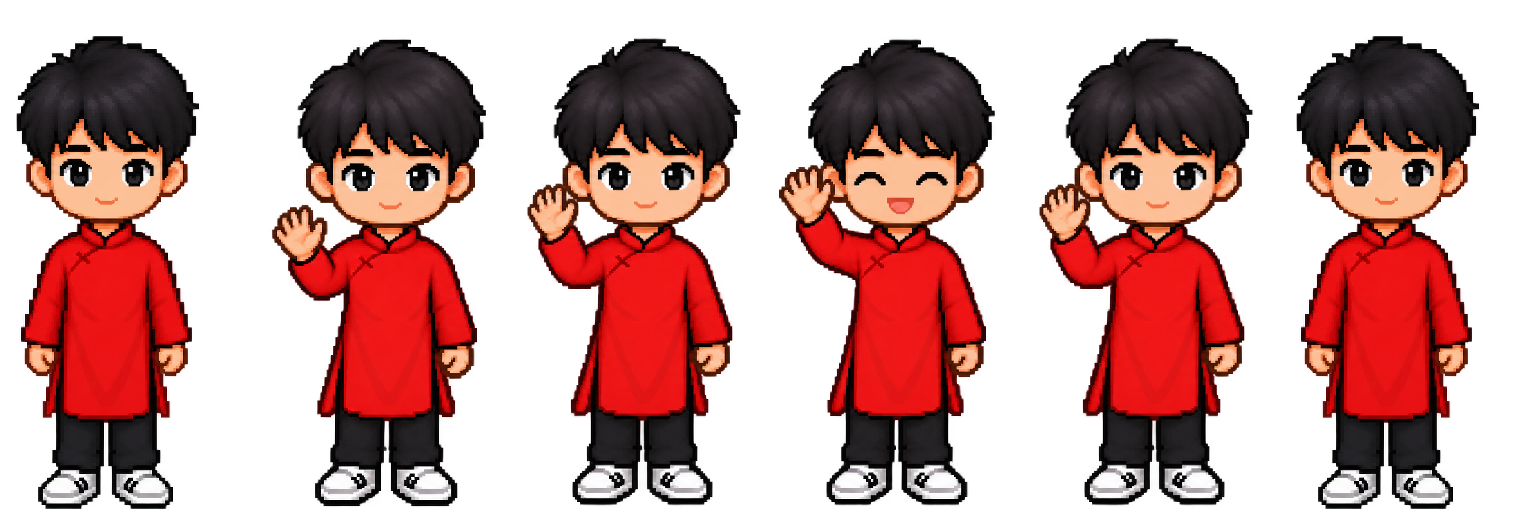
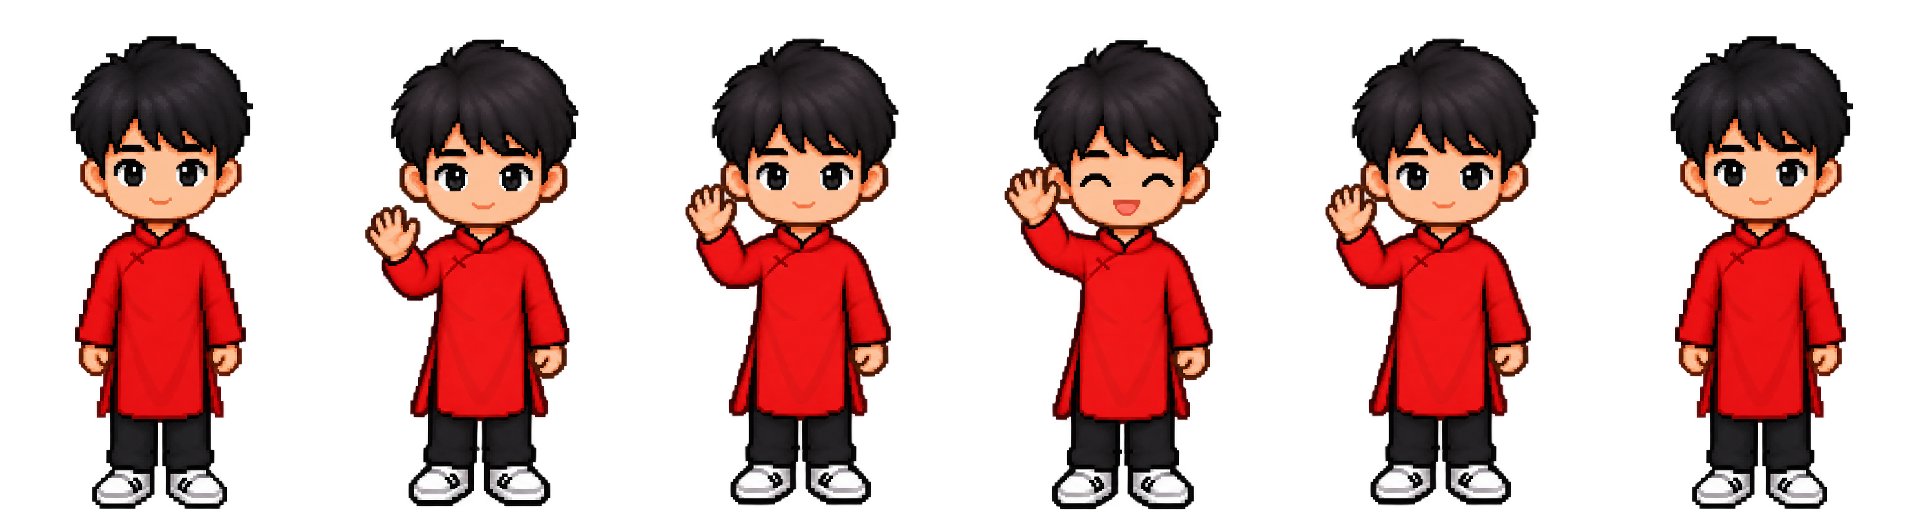
feat(character): update Duong character sprites
Add new wave and idle animations, and refine the welcome animation logic for the character component.

diff --git a/src/components/character/InteractivePixelCharacter.tsx b/src/components/character/InteractivePixelCharacter.tsx
@@ -1,4 +1,5 @@
 import React from 'react';
+import { auth } from '../../lib/firebase';
 import { CharacterState, PixelCharacter } from './PixelCharacter';
 
 interface InteractivePixelCharacterProps {
@@ -7,11 +8,14 @@ interface InteractivePixelCharacterProps {
 }
 
 const STORAGE_KEY = 'us:duong-pixel-character:v1';
-const WELCOME_SESSION_KEY = 'us:duong-wave-welcome:v1';
 const HUNGRY_AFTER_MS = 6 * 60 * 60 * 1000;
 const REACTION_DURATION_MS = 4200;
-const WELCOME_DELAY_MS = 350;
 const WELCOME_ANIMATION_MS = 2150;
+
+// Module-level guard:
+// - resets on a real page/app reload
+// - does NOT replay just because the user changes tabs inside the app
+let welcomePlayedThisPageLoad = false;
 
 interface StoredCharacterState {
   lastFedAt?: number;
@@ -60,6 +64,11 @@ const getAutomaticState = (
   return 'idle';
 };
 
+const isChucAccount = () =>
+  auth.currentUser?.email
+    ?.toLowerCase()
+    .trim() === 'chucga@gmail.com';
+
 export const InteractivePixelCharacter: React.FC<
   InteractivePixelCharacterProps
 > = ({
@@ -75,8 +84,8 @@ export const InteractivePixelCharacter: React.FC<
   const [clock, setClock] = React.useState(() => Date.now());
 
   const reactionTimerRef = React.useRef<number | null>(null);
-  const welcomeStartTimerRef = React.useRef<number | null>(null);
   const welcomeEndTimerRef = React.useRef<number | null>(null);
+  const welcomeStartTimerRef = React.useRef<number | null>(null);
 
   React.useEffect(() => {
     const interval = window.setInterval(() => {
@@ -86,34 +95,85 @@ export const InteractivePixelCharacter: React.FC<
     return () => window.clearInterval(interval);
   }, []);
 
-  // Dương is this component. If isCurrentUser is false, Chúc is viewing.
-  // Greet once per browser-tab session, then return to the normal state.
+  /*
+   * IMPORTANT:
+   * Home is already mounted UNDER LoadingSplash.
+   * Starting wave on component mount means the animation can finish
+   * while the intro is still covering the page.
+   *
+   * Instead, wait until `.us-snake-loader` is physically removed.
+   * That is the exact moment the intro has finished.
+   */
   React.useEffect(() => {
-    if (isCurrentUser || typeof window === 'undefined') return;
-
-    try {
-      if (window.sessionStorage.getItem(WELCOME_SESSION_KEY)) {
-        return;
-      }
-      window.sessionStorage.setItem(WELCOME_SESSION_KEY, '1');
-    } catch {
-      // If sessionStorage is blocked, the greeting still works.
+    if (
+      typeof window === 'undefined' ||
+      typeof document === 'undefined' ||
+      isCurrentUser ||
+      !isChucAccount() ||
+      welcomePlayedThisPageLoad
+    ) {
+      return;
     }
 
-    welcomeStartTimerRef.current = window.setTimeout(() => {
-      setShowActions(false);
-      setTemporaryState('wave');
-    }, WELCOME_DELAY_MS);
+    let disposed = false;
+    let observer: MutationObserver | null = null;
 
-    welcomeEndTimerRef.current = window.setTimeout(() => {
-      setTemporaryState(null);
-      setClock(Date.now());
-    }, WELCOME_DELAY_MS + WELCOME_ANIMATION_MS);
+    const playWelcome = () => {
+      if (
+        disposed ||
+        welcomePlayedThisPageLoad ||
+        !isChucAccount()
+      ) {
+        return;
+      }
+
+      welcomePlayedThisPageLoad = true;
+
+      // A tiny post-intro delay lets Home become visually stable first.
+      welcomeStartTimerRef.current = window.setTimeout(() => {
+        if (disposed) return;
+
+        setShowActions(false);
+        setTemporaryState('wave');
+
+        welcomeEndTimerRef.current = window.setTimeout(() => {
+          if (disposed) return;
+
+          setTemporaryState(null);
+          setClock(Date.now());
+        }, WELCOME_ANIMATION_MS);
+      }, 120);
+    };
+
+    const introIsGone = () =>
+      !document.querySelector('.us-snake-loader');
+
+    if (introIsGone()) {
+      playWelcome();
+    } else {
+      observer = new MutationObserver(() => {
+        if (introIsGone()) {
+          observer?.disconnect();
+          observer = null;
+          playWelcome();
+        }
+      });
+
+      observer.observe(document.body, {
+        childList: true,
+        subtree: true,
+      });
+    }
 
     return () => {
+      disposed = true;
+
+      observer?.disconnect();
+
       if (welcomeStartTimerRef.current !== null) {
         window.clearTimeout(welcomeStartTimerRef.current);
       }
+
       if (welcomeEndTimerRef.current !== null) {
         window.clearTimeout(welcomeEndTimerRef.current);
       }

diff --git a/src/components/character/PixelCharacter.tsx b/src/components/character/PixelCharacter.tsx
@@ -26,12 +26,14 @@ const DUONG_STATE_IMAGES: Record<
   sad: '/characters/male_sad.png',
 };
 
+const SPRITE_ASPECT_RATIO = '5 / 8';
+
 const IdleSprite: React.FC<{ name: string }> = ({ name }) => {
   return (
     <div
       className="relative h-full max-h-full overflow-hidden shrink-0"
       style={{
-        aspectRatio: '1 / 2',
+        aspectRatio: SPRITE_ASPECT_RATIO,
         maxWidth: '100%',
       }}
       role="img"
@@ -80,7 +82,7 @@ const WaveSprite: React.FC<{ name: string }> = ({ name }) => {
     <div
       className="relative h-full max-h-full overflow-hidden shrink-0"
       style={{
-        aspectRatio: '1 / 2',
+        aspectRatio: SPRITE_ASPECT_RATIO,
         maxWidth: '100%',
       }}
       role="img"
